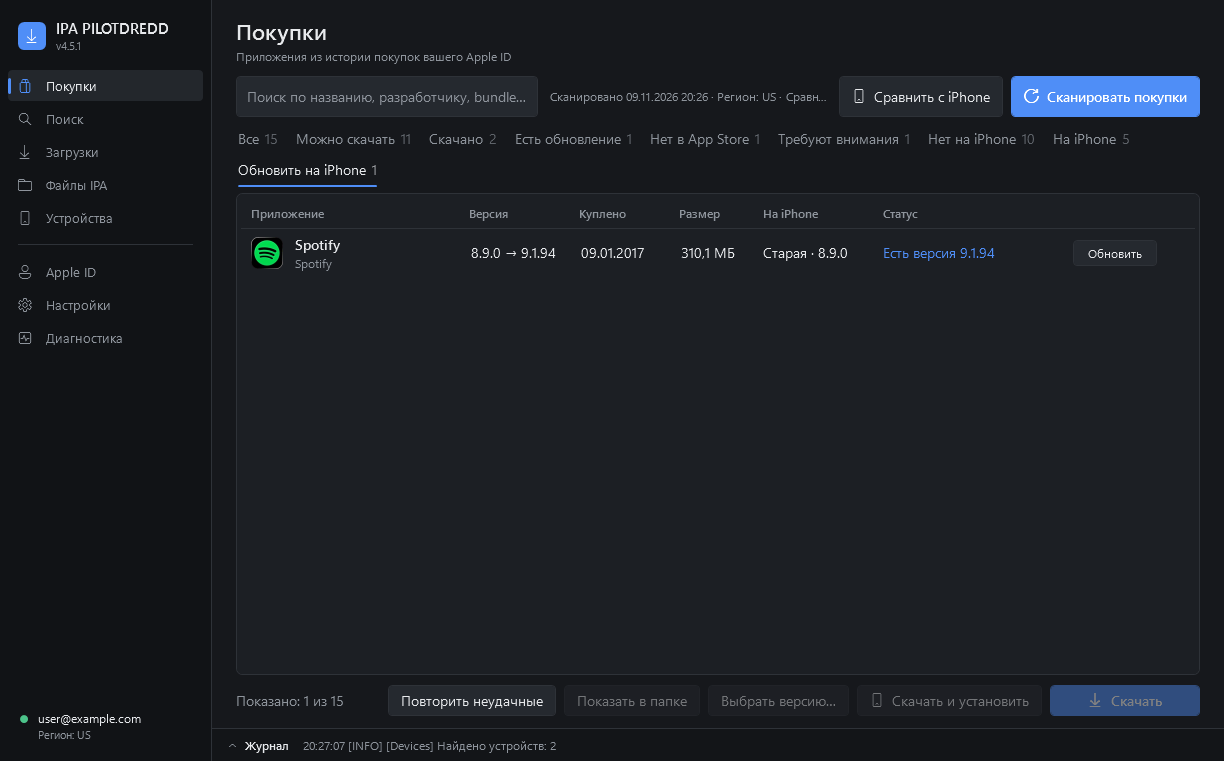
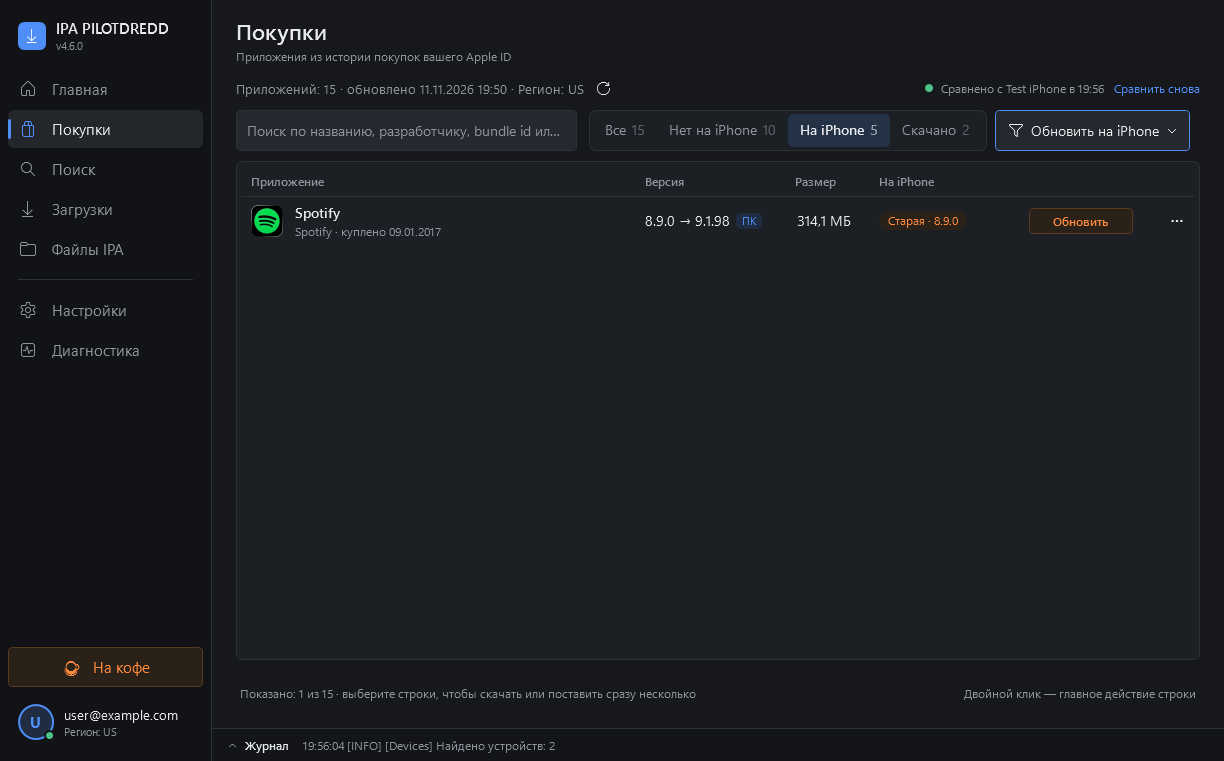
Release 4.6.0: Home screen, new Purchases, docs and screenshots

diff --git a/README.md b/README.md
@@ -1,6 +1,8 @@
 # IPA PILOTDREDD
 
-**Библиотека ваших покупок App Store на Windows.** Войдите в свой Apple ID, нажмите «Сканировать покупки» — и увидите все приложения, которые вы когда-либо покупали или скачивали бесплатно: с иконками, версиями и понятным статусом. Скачать IPA и поставить на iPhone — в пару кликов.
+**Библиотека ваших покупок App Store на Windows.** Войдите в свой Apple ID — и увидите все приложения, которые вы когда-либо покупали или скачивали бесплатно: с иконками и версиями. Подключите iPhone — программа сама покажет, чего на нём нет и что пора обновить. Поставить — одной кнопкой.
+
+![Главная](docs/images/home_dark.png)
 
 ![Покупки](docs/images/purchases_dark.png)
 
@@ -8,11 +10,12 @@
 
 ## Возможности
 
-- **Библиотека покупок** — вся история покупок Apple ID с 2008 года: иконки, разработчик, версия в App Store, размер, дата покупки.
-- **Честные статусы** — «Можно скачать», «Скачано», «Есть новая версия», «Нет в App Store», «Не удалось скачать» (только после реальной попытки, с текстом ответа Apple), «Не проверено». Никаких выдуманных «не куплено».
-- **Приложения, снятые с продажи** — отдельная вкладка. Apple часто продолжает отдавать купленное даже после удаления из магазина — кнопка «Попробовать».
-- **Скачать и установить** — одна кнопка: скачивает IPA и ставит на подключённый iPhone/iPad, с проверкой версии iOS и подписи.
-- **Сравнить с iPhone** — читает приложения на телефоне и показывает, каких покупок на нём нет и что пора обновить; недостающее ставится в пару кликов.
+- **Главная** — карточка iPhone (модель, iOS, кабель или Wi-Fi, свободное место) и три плитки: «Нет на iPhone», «На iPhone», «Обновить». Установка IPA с диска — кнопкой или перетаскиванием файла.
+- **Библиотека покупок** — вся история покупок Apple ID с 2008 года: иконки, разработчик, версия в App Store, размер, дата покупки. Четыре вкладки — «Все / Нет на iPhone / На iPhone / Скачано» — и «Фильтр» для редкого.
+- **Сравнение с iPhone само** — подключили телефон, и у каждой покупки видно: нет на iPhone, стоит, стоит старая версия или нужна iOS новее.
+- **Одна кнопка в строке** — «На iPhone» (скачать и поставить), «Обновить» или «Нужна iOS N». Выбрали несколько — поставить, обновить или удалить с iPhone разом.
+- **Честные статусы** — «Нет в App Store», «Не удалось скачать» (только после реальной попытки, с текстом ответа Apple), «Не проверено». Никаких выдуманных «не куплено».
+- **Приложения, снятые с продажи** — в фильтре «Нет в App Store». Apple часто продолжает отдавать купленное даже после удаления из магазина.
 - **По кабелю и по Wi-Fi** — iPhone/iPad находится и по сети, если в «Apple Devices»/iTunes включена синхронизация по Wi-Fi.
 - **Очередь загрузок** — сколько угодно приложений подряд, прогресс в строке, повтор неудачных; незавершённое продолжается после перезапуска.
 - **Выбор версии** — скачать любую доступную старую версию приложения.
@@ -24,8 +27,8 @@
 
 | | |
 |---|---|
-| ![Снятые с продажи](docs/images/purchases_removed.png) | ![Светлая тема](docs/images/purchases_light.png) |
-| ![Поиск](docs/images/search_popular.png) | ![Устройства](docs/images/devices.png) |
+| ![Нет на iPhone](docs/images/purchases_not_on_iphone.png) | ![Выбрано несколько](docs/images/purchases_selected.png) |
+| ![Светлая тема](docs/images/home_light.png) | ![Поиск](docs/images/search_popular.png) |
 
 ## Чем отличается от IPA Downloader
 
@@ -48,7 +51,7 @@ IPA PILOTDREDD основан на консольном [IPA Downloader](https:/
 1. Скачайте `IPA_PILOTDREDD_<версия>_portable.zip` со страницы [Releases](../../releases).
 2. Распакуйте **целиком** в любую папку (можно на флешку) и запустите `IPA_PILOTDREDD.exe`.
 3. При первом запуске нажмите **«Загрузить компоненты»** — программа скачает инструменты для iPhone из официального релиза IPA Downloader (~100 МБ, один раз) и свежий ipatool-cpp из его официального релиза, проверив контрольные суммы. Дальше обновления ipatool приходят напрямую от ipatool-cpp.
-4. Войдите в Apple ID (внизу боковой панели) → **Покупки** → **Сканировать покупки**.
+4. Войдите в Apple ID (внизу боковой панели) → **Покупки** — список загрузится сам (обновить — кнопкой ↻). Подключите iPhone кабелем или по Wi-Fi.
 
 Программа portable: ничего не устанавливает, все данные (скачанные IPA, настройки, журналы) хранятся в её папке.
 

diff --git a/CHANGELOG.md b/CHANGELOG.md
@@ -2,7 +2,7 @@
 
 Формат по мотивам [Keep a Changelog](https://keepachangelog.com/ru/1.1.0/). Записи для 4.1.2 и 4.2.0 восстановлены по коду: в репозитории не было истории изменений.
 
-## [Не выпущено] — 4.6.0
+## [4.6.0] — 2026-11-11
 ### Добавлено
 - **«Главная» — новый первый экран.** Карточка iPhone: имя, модель, iOS, кабель или Wi-Fi, сколько приложений на телефоне (после сравнения), свободное место. «Установить IPA с диска…» и перетаскивание .ipa на «Главную» сразу ставят файл на iPhone. Три плитки «Нет на iPhone / На iPhone / Обновить» открывают нужную вкладку «Покупок» (если сравнения ещё не было, запускают его). Текущая загрузка с прогрессом и отменой, «Недавно» — последние загрузки и установки.
 - Первый запуск: три шага с галочками — компоненты → Apple ID → iPhone. Нет телефона: подсказка «Подключите кабелем или по Wi-Fi» и «Искать снова».
@@ -10,7 +10,6 @@
 - **«Удалить с iPhone»** в «Покупках» (кнопка и меню появляются, когда выбраны приложения, которые стоят на телефоне): с подтверждением, по одному, с итогом и записью в историю (`ideviceinstaller uninstall`).
 - «Поиск»: кнопка **«На iPhone»** рядом со скачиванием (раньше «Скачать и установить» было только в меню по правому клику).
 - Модель устройства по-человечески: `iPhone16,2` → «iPhone 15 Pro Max» (iPhone 8 … 17; неизвестное — как есть).
-
 - **«Покупки» — новый вид, меньше шума.**
   - Четыре главные вкладки вместо девяти в две строки: «Все / Нет на iPhone / На iPhone / Скачано». Редкое — в кнопке **«Фильтр»**: «Обновить на iPhone», «Есть новая версия IPA», «Нет в App Store», «Не подходит к iOS», «Не удалось скачать» (со счётчиками; фильтр сужает выбранную вкладку).
   - **Сравнение с iPhone запускается само**, когда найден один готовый iPhone и покупки загружены (тихо, итог — в журнале). В шапке справа: «Сравнено с … в …» и ссылка «Сравнить снова».
@@ -23,11 +22,9 @@
 ### Исправлено
 - Повторное «Скачать» в «Поиске» для уже скачанной версии создавало копии `_2`, `_3`… Теперь программа спрашивает: поставить на iPhone, скачать заново или отмена.
 
-### Изменено (ещё)
+### Изменено
 - «Поиск» открывается на вкладке «Популярные»; кнопка «Скачать последнюю» → «Скачать на ПК».
 - «Диагностика» → «О программе»: без упоминания IPA Downloader (уведомление в `LICENSE` и `THIRD_PARTY_NOTICES.md` остаётся).
-
-### Изменено
 - Ядро: правила строки «Покупок» вынесены из окна и покрыты тестами — `Get-DreddPurchaseDeviceBadge` (плашка «На iPhone», включая «Нужна iOS N») и `Get-DreddPurchaseTabs` (в какие вкладки и фильтры попадает приложение). Показ строк и счётчики вкладок теперь считаются по одному правилу. Поведение прежнее; добавлены ключи будущих фильтров `Failed` и `Incompatible`.
 - Меню: подписи и иконки крупнее; «Устройства» переехали на «Главную» (полный экран — кнопка «Все устройства»), «Apple ID» — по клику на аккаунт внизу (буква-аватарка с точкой-статусом); внизу кнопка «☕ На кофе» (настройка `TipJarUrl`).
 - `Ctrl+1…5` — разделы меню по порядку: Главная, Покупки, Поиск, Загрузки, Файлы IPA.

diff --git a/docs/release-notes/4.6.0.md b/docs/release-notes/4.6.0.md
@@ -1,0 +1,28 @@
+Новая «Главная» и переделанные «Покупки»: меньше кнопок, всё про iPhone — на виду.
+
+### Новое
+- **«Главная» — первый экран.** Карточка iPhone: модель («iPhone 15 Pro Max»), iOS, кабель или Wi-Fi, свободное место, сколько приложений на телефоне. Три плитки — «Нет на iPhone», «На iPhone», «Обновить» — сразу открывают нужный список. Здесь же текущая загрузка и «Недавно».
+- **Первый запуск** — три шага с галочками: компоненты → Apple ID → iPhone.
+- **Установить IPA с диска** — кнопкой или перетаскиванием файла на «Главную».
+- **«Удалить с iPhone»** прямо из «Покупок» (с подтверждением).
+- **☕ «На кофе»** внизу меню — если программа пригодилась.
+
+### «Покупки» — проще
+- Четыре вкладки вместо девяти: **Все / Нет на iPhone / На iPhone / Скачано**. Остальное — в кнопке «Фильтр».
+- **Сравнение с iPhone запускается само**, когда телефон подключён. Справа вверху видно, с каким телефоном и когда сравнивали.
+- В каждой строке **одна понятная кнопка**: «На iPhone» (скачать и поставить), «Обновить» или «Нужна iOS N». Остальное — в «⋯» и по правому клику.
+- Выбрали несколько приложений — внизу появляется панель: поставить, обновить или удалить с iPhone. То, что уже стоит или не подходит к iOS телефона, пропускается.
+
+### Мелочи
+- «Поиск» открывается на «Популярных», у приложений есть кнопка «На iPhone».
+- Повторное скачивание той же версии больше не плодит копии `_2`, `_3` — программа спрашивает, что сделать.
+- Крупнее меню, `Ctrl+1…5` — переход по разделам.
+
+### Прозрачность
+Релиз собран на серверах GitHub из кода этого репозитория. Проверить, что архив не подменён:
+```
+gh attestation verify IPA_PILOTDREDD_4.6.0_portable.zip -R PiloTDredd/IPA_PILOTDREDD
+```
+
+### Как обновиться
+Скачайте `IPA_PILOTDREDD_4.6.0_portable.zip`, откройте его и **скопируйте содержимое папки `IPA_PILOTDREDD_4.6.0` поверх своей папки с программой** (с заменой файлов). Скачанные IPA, настройки, история, аккаунты и компоненты сохранятся.

diff --git a/docs/TESTING.md b/docs/TESTING.md
@@ -142,4 +142,6 @@ powershell -NoProfile -ExecutionPolicy Bypass -STA -File IPA_Dredd.ps1 -SelfTest
 | 2026-11-10 | друг автора (Windows 11, Защитник) | 4.5.1: `IPA_PILOTDREDD.exe` запускается, блокировки нет | ✅ |
 | 2026-11-10 | Claude | 4.6 в работе (`4cc560f`): `tests/Run-Tests.ps1` | ✅ 56/56 |
 | 2026-11-10 | Claude | 4.6, новые «Покупки»: тесты ядра, самопроверка GUI и через exe, снимки на демо-данных (2 темы, выбор, фильтр) просмотрены | ✅ 57/57; по снимкам исправлены обрезанная кнопка строки и лишняя кнопка в панели выбора. На iPhone не проверялось |
-| — | пользователь | Ручной чек-лист §2 целиком (по пунктам) | ⏭ целиком не выполнялся; отдельные проверки — в строках выше. §2.5a (4.6) — перед тегом |
+| 2026-11-11 | пользователь | 4.6.0: ручной чек-лист на своём iPhone и аккаунте (в т.ч. §2.5a) | ✅ со слов автора |
+| 2026-11-11 | Claude | 4.6.0: тесты ядра, самопроверка GUI и через exe, скриншоты README пересняты и просмотрены | ✅ 57/57 |
+| — | пользователь | Ручной чек-лист §2 целиком, по пунктам с отметками | ⏭ по пунктам не отмечался |
